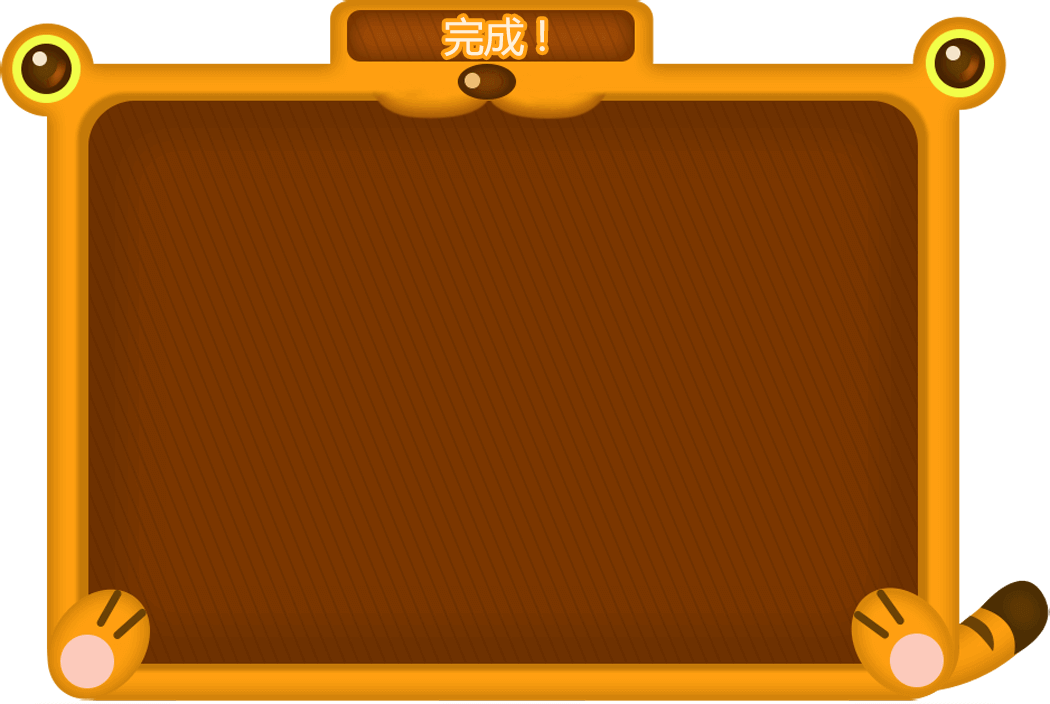
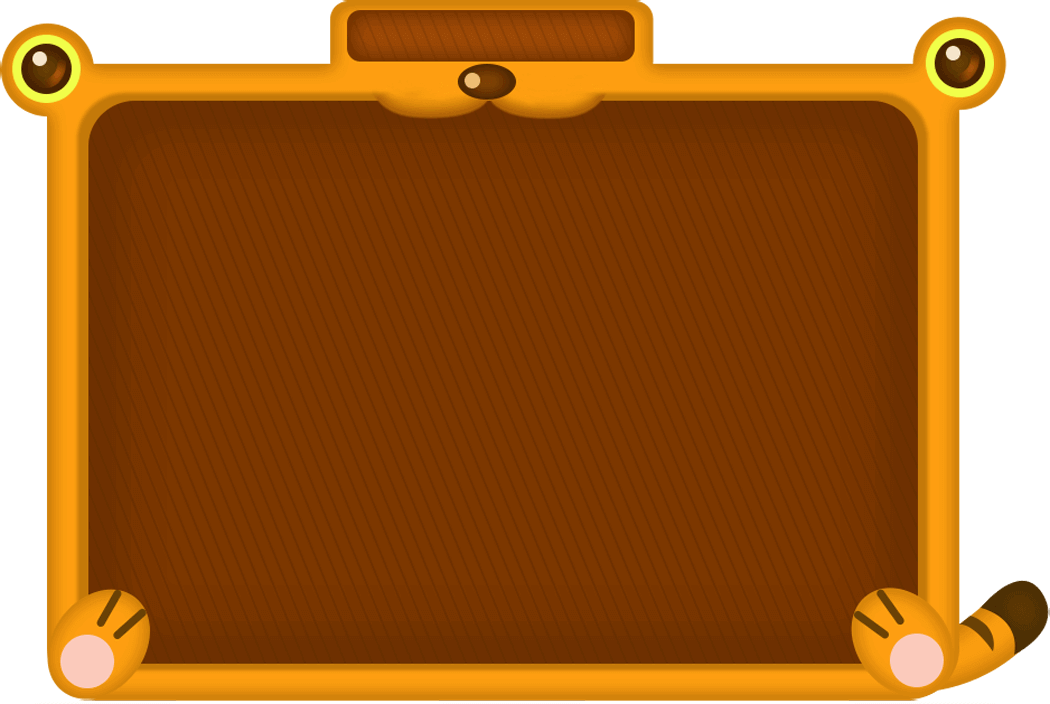
修改分数样式

Changed region(s): [[0.3962, 0.0, 0.5486, 0.0938]]

diff --git a/web/pages/game1.html b/web/pages/game1.html
@@ -15,7 +15,9 @@
     <img src="../images/index/return.png" alt="" class="return" id="js-return">
     <canvas id="canvas" width="2048" height="1536" style="background:transparent"></canvas>
     <div class="gradewp-wp js-hide" id="js-gradewp">
+        
         <div class="gradewp">
+            <div class="text">完成</div>
             <div class="starswp">
                 <div class="star star1"></div>
                 <div class="star star2"></div>

diff --git a/web/css/game.css b/web/css/game.css
@@ -111,6 +111,14 @@ html,body{
     left: 0.6rem;
     z-index: 70;
 }
+.gradewp-wp .text{
+    position: absolute;
+    top: 0.07rem; 
+    left: 4.5rem;
+    color: rgba(255, 255, 255, 0.9);
+    font-size: 0.4rem;
+    text-shadow:1px 1px #fd9e11,-1px -1px #fd9e11,1px -1px #fd9e11,-1px 1px #fd9e11,2px 2px 2px #fd9e11,-2px -2px 2px #fd9e11,2px -2px 2px #fd9e11,-2px 2px 2px #fd9e11;
+}
 /*game3  */
 .piece-wp{
     width: 100%;

diff --git a/web/pages/game2.html b/web/pages/game2.html
@@ -17,6 +17,7 @@
     <img src="../images/index/return.png" alt="" class="return" id="js-return">
     <div class="gradewp-wp js-hide" id="js-gradewp">
         <div class="gradewp">
+            <div class="text">完成</div>
             <div class="starswp">
                 <div class="star star1"></div>
                 <div class="star star2"></div>
